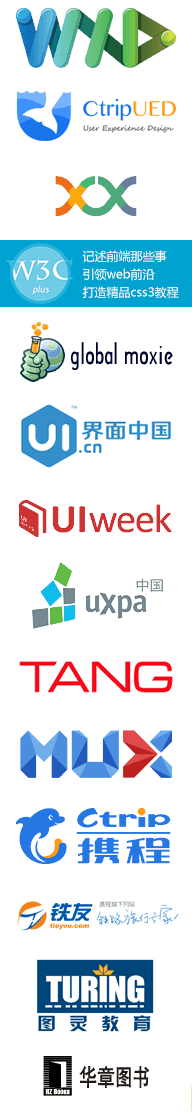
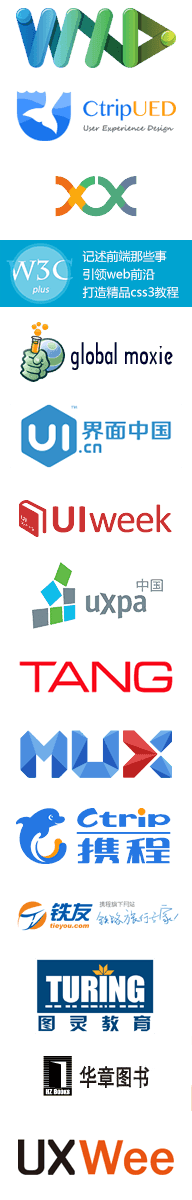
WA样式：赞助商增加UIWee

diff --git a/index.html b/index.html
@@ -323,6 +323,7 @@
 			<a href="http://www.tieyou.com/" class="sponsor-tieyou" title="铁友" target="_blank">铁友</a>
 			<a href="http://www.ituring.com.cn/" class="sponsor-turing" title="图灵" target="_blank">图灵</a>
 			<a href="http://www.hzbook.com/" class="sponsor-hzbook" title="华章" target="_blank">华章</a>
+			<a href="http://uxwee.com/" class="sponsor-uxwee" title="UXWee" target="_blank">UXWee</a>
 		</div>
 	</div>
 	<footer>

diff --git a/styles/dft.css b/styles/dft.css
@@ -85,6 +85,7 @@ header.shown { top: 0 }
 .sponsors .sponsor-tieyou { background-position: 0 -440px; }
 .sponsors .sponsor-turing { background-position: 0 -480px; }
 .sponsors .sponsor-hzbook { background-position: 0 -520px; }
+.sponsors .sponsor-uxwee { background-position: 0 -560px; }
 
 footer { padding: 60px 0; background: #f0f0f0; font-size: 16px; font-weight: 100; }
 .footer-contact { float: right; }
